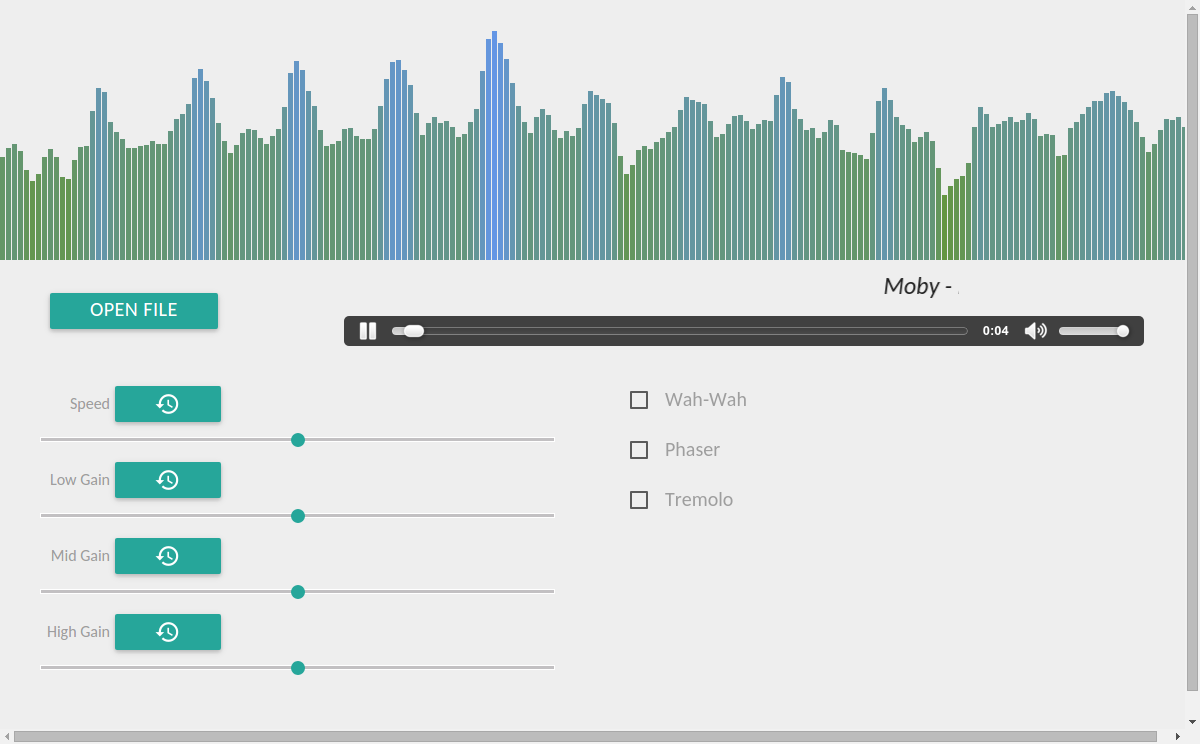
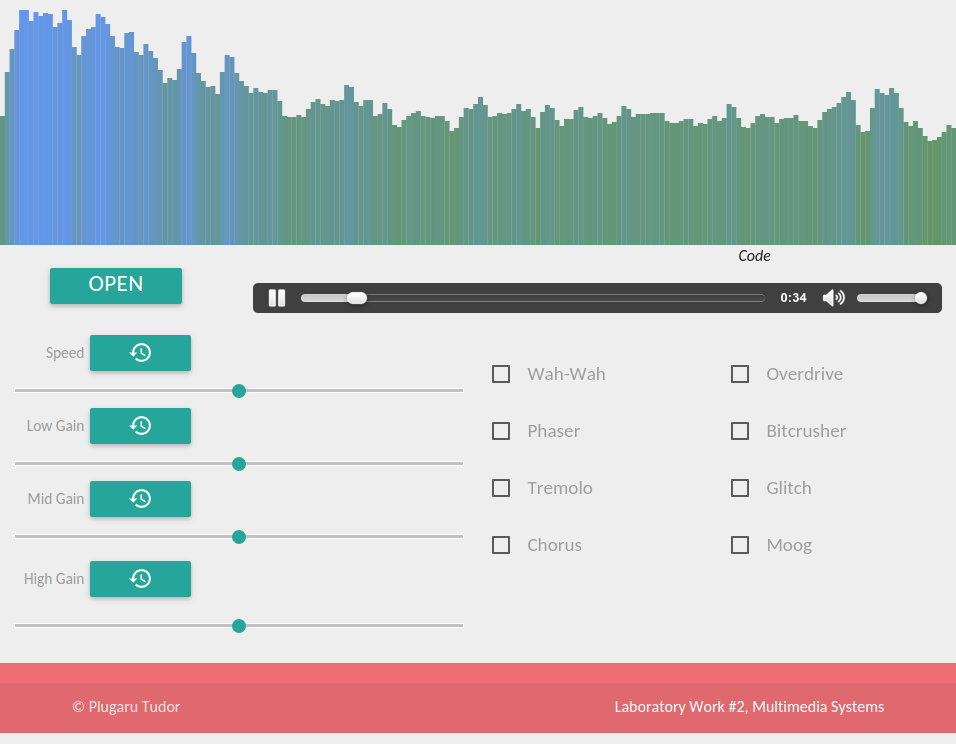
change svg width

diff --git a/css/index.css b/css/index.css
@@ -6,15 +6,9 @@ html, body {
 footer {
     font-size: initial;
 }
-.eq {
-    margin: 20px;
-}
 #player {
     width: 100%;
     vertical-align: middle;
-}
-.controls {
-    margin: 5px;
 }
 #label-slider {
     display: inline-block;
@@ -23,10 +17,10 @@ footer {
 }
 #equalizer-container{
 	margin-top: 10px;
-    height: 250px;
+    height: 235px;
 }
 #track-title{
 	text-align: center;
 	font-style: oblique;
-	font-size: larger;
+	font-size: initial;
 }

diff --git a/js/index.js b/js/index.js
@@ -7,8 +7,9 @@ var lGain = context.createGain();
 var mGain = context.createGain();
 var hGain = context.createGain();
 var frequencyData = new Uint8Array(200);
-var svgHeight = '250';
-var svgWidth = '1200';
+var svgHeight = '235';
+var svgWidth = '956'
+console.log(svgWidth);
 var barPadding = '0';
 var freq = 55 * Math.pow(1.059463, 11);
 var osc; //= context.createOscillator();

diff --git a/main.js b/main.js
@@ -16,7 +16,7 @@ function createWindow() {
         width: 800,
         height: 600,
         icon: 'img/icon.png',
-        maxWidth: 1200
+        maxWidth: 956
     });
 
     // and load the index.html of the app.
